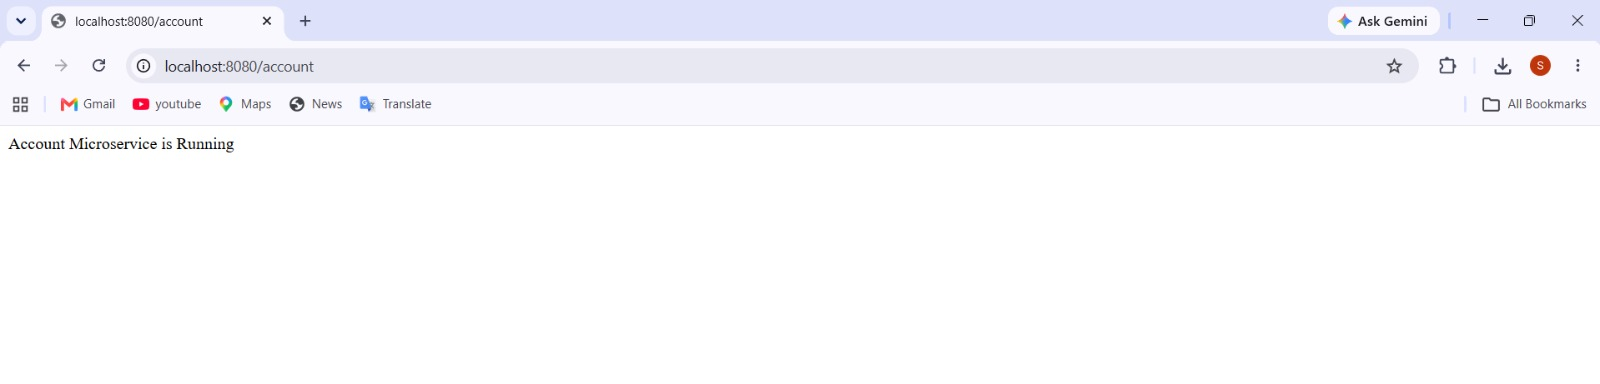
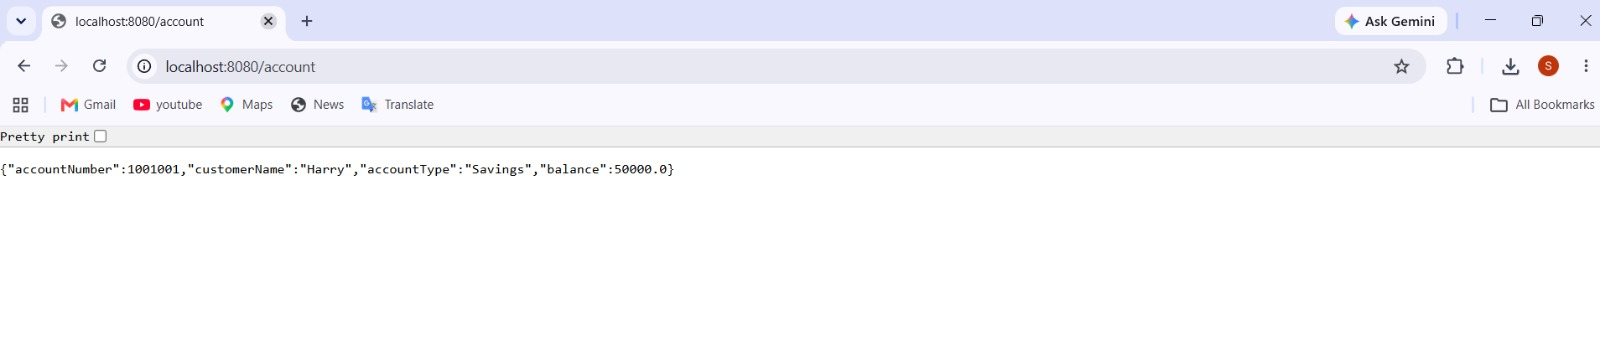
Modified files

diff --git a/Week-4/Creating Microservices for account and loan/account/src/main/java/com/cognizant/spring/account/Account.java b/Week-4/Creating Microservices for account and loan/account/src/main/java/com/cognizant/spring/account/Account.java
@@ -1,0 +1,32 @@
+package com.cognizant.spring.account;
+
+public class Account {
+
+    private int accountNumber;
+    private String customerName;
+    private String accountType;
+    private double balance;
+
+    public Account(int accountNumber, String customerName, String accountType, double balance) {
+        this.accountNumber = accountNumber;
+        this.customerName = customerName;
+        this.accountType = accountType;
+        this.balance = balance;
+    }
+
+    public int getAccountNumber() {
+        return accountNumber;
+    }
+
+    public String getCustomerName() {
+        return customerName;
+    }
+
+    public String getAccountType() {
+        return accountType;
+    }
+
+    public double getBalance() {
+        return balance;
+    }
+}

diff --git a/Week-4/Creating Microservices for account and loan/account/src/main/java/com/cognizant/spring/account/controller/AccountController.java b/Week-4/Creating Microservices for account and loan/account/src/main/java/com/cognizant/spring/account/controller/AccountController.java
@@ -1,5 +1,6 @@
 package com.cognizant.spring.account.controller;
 
+import com.cognizant.spring.account.Account;
 import org.springframework.web.bind.annotation.GetMapping;
 import org.springframework.web.bind.annotation.RestController;
 
@@ -7,7 +8,13 @@ import org.springframework.web.bind.annotation.RestController;
 public class AccountController {
 
     @GetMapping("/account")
-    public String getAccount() {
-        return "Account Microservice is Running";
+    public Account getAccount() {
+
+        return new Account(
+                1001001,
+                "Harry",
+                "Savings",
+                50000
+        );
     }
 }